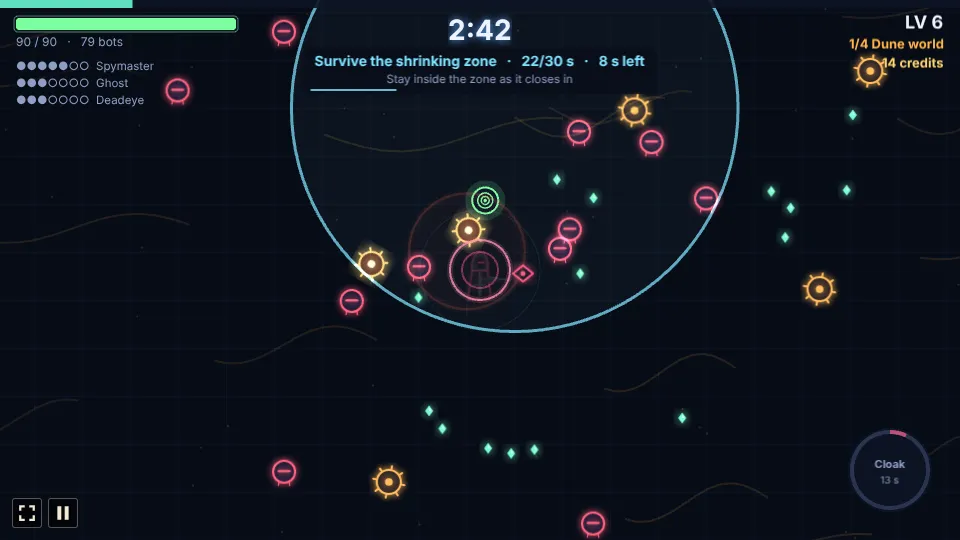
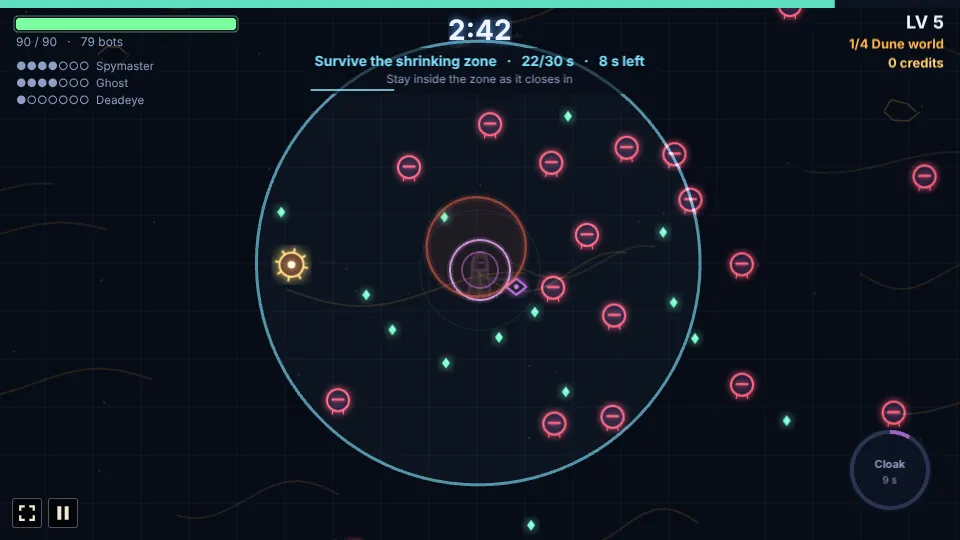
Riftblade: new colours and shapes for the four crew heroes
Dax Morrow now wears olive with salmon trim, Grunda has slate fur with pale aqua trim and a belt and shoulder guard, KT-4 "Kettle" is a boxy brass droid with a mint lens, and Cassia Vane an umber cloak with an orchid visor. Dax's freighter is a boxy hauler with two engine pods. Grunda's mastery colours move off Kettle's new mint. The screenshots are retaken.

Requested by Chriszly.

Created with Claude Opus 5.5 (low)

diff --git a/games/riftblade/src/art/crew.ts b/games/riftblade/src/art/crew.ts
@@ -1,6 +1,6 @@
 /**
  * The crew's art: Dax Morrow (a smuggler in a vest with a heavy pistol), Grunda (a big furred
- * hunter with a crossbow), KT-4 "Kettle" (a small domed droid with a zap prod) and Cassia Vane (a
+ * hunter with a crossbow), KT-4 "Kettle" (a small boxy droid with a zap prod) and Cassia Vane (a
  * hooded spy with a long rifle), each from its scheme, and their allies' textures: Dax's freighter,
  * Kettle's repair drone and Cassia's spy drone. Painted lazily, the first time one is shown
  * (`bakeLate` in `sprites.ts`), never at boot.
@@ -65,7 +65,7 @@ export function drawCrewHero(ctx: Ctx, id: HeroId, x: number, y: number, z: numb
     return;
   }
   if (id === 'grunda') {
-    // A head taller than the rest: a shaggy body, a bandolier, a long face with dark eyes.
+    // A head taller than the rest: a shaggy body, a belt and shoulder guard, a long face with dark eyes.
     const fur = sch.body;
     shape(ctx, () => ctx.roundRect(x - 28, y - 4, 56, 70, 22), fur, sch.accent, 6, z);
     ctx.fillStyle = shade(fur, -0.2);
@@ -77,14 +77,12 @@ export function drawCrewHero(ctx: Ctx, id: HeroId, x: number, y: number, z: numb
       ctx.lineTo(fx + 8, y + 60);
       ctx.fill();
     }
-    ctx.strokeStyle = mark;
-    ctx.lineWidth = 7;
-    ctx.beginPath();
-    ctx.moveTo(x - 24, y + 4);
-    ctx.lineTo(x + 22, y + 52);
-    ctx.stroke();
+    // A wide belt with a buckle, and a shoulder guard.
+    ctx.fillStyle = mark;
+    ctx.fillRect(x - 28, y + 40, 56, 8);
     ctx.fillStyle = sch.accent;
-    for (let i = 0; i < 4; i++) ctx.fillRect(x - 16 + i * 10, y + 9 + i * 10.5, 5, 6);
+    ctx.fillRect(x - 5, y + 39, 10, 10);
+    shape(ctx, () => ctx.roundRect(x - 32, y - 2, 22, 14, 6), mark, sch.accent, 4, z);
     shape(ctx, () => ctx.roundRect(x - 19, y - 42, 38, 42, 16), fur, sch.accent, 6, z);
     ctx.fillStyle = shade(fur, 0.2);
     ctx.beginPath();
@@ -113,31 +111,39 @@ export function drawCrewHero(ctx: Ctx, id: HeroId, x: number, y: number, z: numb
     return;
   }
   if (id === 'kettle') {
-    // Small: a white barrel body with a blue dome, one big lens, stubby legs and a prod arm.
+    // Small and boxy: a squat brass body on three short legs, a flat-topped head with a visor slit
+    // and two antennae, and a prod arm.
     ctx.fillStyle = shade(sch.body, -0.45);
-    ctx.fillRect(x - 20, y + 46, 10, 18);
-    ctx.fillRect(x + 10, y + 46, 10, 18);
-    shape(ctx, () => ctx.roundRect(x - 20, y + 4, 40, 48, 8), sch.body, sch.accent, 8, z);
-    ctx.fillStyle = sch.accent;
-    ctx.fillRect(x - 20, y + 18, 40, 6);
-    ctx.fillRect(x - 12, y + 30, 8, 14);
+    ctx.fillRect(x - 18, y + 48, 8, 16);
+    ctx.fillRect(x - 4, y + 50, 8, 14);
+    ctx.fillRect(x + 10, y + 48, 8, 16);
+    shape(ctx, () => ctx.roundRect(x - 22, y + 14, 44, 38, 5), sch.body, sch.accent, 8, z);
     ctx.fillStyle = mark;
-    ctx.fillRect(x + 2, y + 30, 12, 4);
-    ctx.fillRect(x + 2, y + 38, 12, 4);
-    shape(ctx, () => {
-      ctx.arc(x, y + 6, 20, Math.PI, 0);
-      ctx.closePath();
-    }, sch.accent, sch.accent, 6, z);
-    ctx.fillStyle = sch.body;
-    ctx.fillRect(x - 14, y - 6, 28, 3);
-    shape(ctx, () => ctx.arc(x + 6, y - 2, 6, 0, Math.PI * 2), C.ink, sch.bolt, 8, z);
-    ctx.fillStyle = sch.bolt;
+    ctx.fillRect(x - 22, y + 26, 44, 5);
+    ctx.fillStyle = shade(sch.body, 0.25);
+    for (let i = 0; i < 3; i++) ctx.fillRect(x - 14 + i * 10, y + 36, 6, 8);
+    shape(ctx, () => ctx.roundRect(x - 15, y - 12, 30, 24, 4), shade(sch.body, 0.1), sch.accent, 6, z);
+    ctx.fillStyle = C.ink;
+    ctx.fillRect(x - 11, y - 4, 22, 7);
+    ctx.save();
+    glow(ctx, sch.accent, 10, z);
+    ctx.fillStyle = sch.accent;
+    ctx.fillRect(x - 2, y - 3, 10, 5);
+    ctx.restore();
+    ctx.strokeStyle = mark;
+    ctx.lineWidth = 2;
     ctx.beginPath();
-    ctx.arc(x + 7, y - 3, 2.5, 0, Math.PI * 2);
-    ctx.fill();
+    ctx.moveTo(x - 9, y - 12);
+    ctx.lineTo(x - 13, y - 24);
+    ctx.moveTo(x + 9, y - 12);
+    ctx.lineTo(x + 11, y - 22);
+    ctx.stroke();
+    ctx.fillStyle = sch.accent;
+    ctx.fillRect(x - 15, y - 27, 4, 4);
+    ctx.fillRect(x + 9, y - 25, 4, 4);
     // The prod: a thin arm with a forked, sparking tip.
     ctx.fillStyle = '#8a93a6';
-    ctx.fillRect(x + 18, y + 26, 26, 4);
+    ctx.fillRect(x + 20, y + 26, 24, 4);
     ctx.fillRect(x + 42, y + 21, 3, 14);
     ctx.fillRect(x + 42, y + 21, 8, 3);
     ctx.fillRect(x + 42, y + 32, 8, 3);
@@ -192,20 +198,22 @@ export function drawCrewHero(ctx: Ctx, id: HeroId, x: number, y: number, z: numb
 /** Paints the crew's allies: the freighter (pointing right), the repair drone and the spy drone. */
 export function bakeCrewAllies(scene: Phaser.Scene, id: HeroId, sch: HeroScheme) {
   if (id === 'dax' && !scene.textures.exists('rb-freighter')) {
-    paint(scene, 'rb-freighter', 76, 56, (ctx) => {
-      // A round-nosed freighter seen from above, its cockpit off to one side.
-      shape(ctx, () => ctx.ellipse(34, 28, 26, 22, 0, 0, Math.PI * 2), '#b8b4a8', sch.accent, 10);
-      ctx.fillStyle = '#8a867c';
-      ctx.fillRect(48, 18, 22, 6);
-      ctx.fillRect(48, 32, 22, 6);
-      shape(ctx, () => ctx.roundRect(54, 6, 16, 10, 4), '#d6d2c6', sch.accent, 4);
+    paint(scene, 'rb-freighter', 76, 48, (ctx) => {
+      // A boxy hauler seen from above, pointing right: a long cargo hull, a narrow cab at the
+      // front and two engine pods at the back.
+      shape(ctx, () => ctx.roundRect(14, 14, 44, 20, 4), '#6f7a72', sch.accent, 10);
+      ctx.fillStyle = '#56605a';
+      for (let i = 0; i < 3; i++) ctx.fillRect(20 + i * 12, 17, 8, 14);
+      shape(ctx, () => ctx.roundRect(56, 18, 14, 12, 5), '#8a958c', sch.accent, 4);
       ctx.fillStyle = C.ink;
-      ctx.fillRect(64, 8, 5, 6);
-      outline(ctx, () => ctx.arc(34, 28, 10, 0, Math.PI * 2), shade('#b8b4a8', -0.3), 2, 0);
+      ctx.fillRect(64, 20, 4, 8);
+      shape(ctx, () => ctx.roundRect(8, 4, 20, 9, 3), '#56605a', sch.accent, 4);
+      shape(ctx, () => ctx.roundRect(8, 35, 20, 9, 3), '#56605a', sch.accent, 4);
       ctx.save();
-      glow(ctx, '#7fdfff', 10);
-      ctx.fillStyle = '#7fdfff';
-      ctx.fillRect(6, 22, 4, 12);
+      glow(ctx, sch.bolt, 10);
+      ctx.fillStyle = sch.bolt;
+      ctx.fillRect(4, 6, 4, 5);
+      ctx.fillRect(4, 37, 4, 5);
       ctx.restore();
     });
   }

diff --git a/games/riftblade/src/game/heroes.ts b/games/riftblade/src/game/heroes.ts
@@ -387,7 +387,7 @@ export const HEROES: Record<HeroId, HeroDef> = {
     short: 'daxShort',
     weapon: 'daxWeapon',
     pools: ['blaster'],
-    schemes: [{ name: 'Smuggler', body: '#3a3128', accent: '#7ee08a', mark: '#e8dcc0', bolt: '#ff7a5a' }],
+    schemes: [{ name: 'Olive', body: '#2f3b2c', accent: '#e2725b', mark: '#d9c27a', bolt: '#ffc48a' }],
     maxHp: 125,
     speed: 152,
     aim: 'nearest',
@@ -413,7 +413,7 @@ export const HEROES: Record<HeroId, HeroDef> = {
     pools: ['blaster'],
     // A big, furred body.
     r: 17,
-    schemes: [{ name: 'Fur', body: '#8a6a48', accent: '#f0a050', mark: '#4a3826', bolt: '#9cff6a' }],
+    schemes: [{ name: 'Slate', body: '#5b6878', accent: '#9ad1d4', mark: '#36404c', bolt: '#d6f5a0' }],
     maxHp: 160,
     speed: 130,
     aim: 'nearest',
@@ -439,7 +439,7 @@ export const HEROES: Record<HeroId, HeroDef> = {
     pools: ['blaster'],
     // A small droid.
     r: 10,
-    schemes: [{ name: 'Shell', body: '#d8dde6', accent: '#4da6ff', mark: '#3a4a66', bolt: '#7fdfff' }],
+    schemes: [{ name: 'Brass', body: '#b89a6a', accent: '#6ef0a8', mark: '#5a4630', bolt: '#b6ffd8' }],
     maxHp: 100,
     speed: 192,
     aim: 'zap',
@@ -463,7 +463,7 @@ export const HEROES: Record<HeroId, HeroDef> = {
     short: 'cassiaShort',
     weapon: 'cassiaWeapon',
     pools: ['blaster'],
-    schemes: [{ name: 'Shadow', body: '#1c1f2a', accent: '#ff5c8a', mark: '#5a6070', bolt: '#ff8fb0' }],
+    schemes: [{ name: 'Umber', body: '#4b4038', accent: '#d07af0', mark: '#8a7a6a', bolt: '#eab0ff' }],
     maxHp: 90,
     speed: 150,
     aim: 'nearest',

diff --git a/games/riftblade/src/game/mastery.ts b/games/riftblade/src/game/mastery.ts
@@ -61,7 +61,7 @@ export const MASTERY_COLOURS: Record<HeroId, Omit<HeroScheme, 'name' | 'bolt'>> 
   elara: { body: '#2f4a5c', accent: '#ffb347', mark: '#e6dac2' },
   triad: { body: '#2a2d36', accent: '#7df9ff', mark: '#4a5266' },
   dax: { body: '#1e2a3a', accent: '#ffd23f', mark: '#c8b89a' },
-  grunda: { body: '#5c5a58', accent: '#7af0c0', mark: '#2e2c2a' },
+  grunda: { body: '#4a3a2e', accent: '#ff9a76', mark: '#2e2420' },
   kettle: { body: '#f0e6d0', accent: '#ff8a3c', mark: '#5a4630' },
   cassia: { body: '#f2f0f4', accent: '#7a5cff', mark: '#9aa0b0' },
 };

diff --git a/games/riftblade/README.md b/games/riftblade/README.md
@@ -50,10 +50,10 @@ foes and bolts.
 | Master Joren Vask (royal blue blade) | A fast flurry strikes in four directions around him. **Edge**: every 10th hit is a critical hit | **Breaking Point**: one huge strike that stuns the strongest foe (12 s) | Duelist Form, Breaker, Council Seat |
 | Commander Elara Voss (red) | Precise pistol: always aims at the nearest foe. 85 health, medium speed. **Hope**: her level-ups offer 4 cards instead of 3 | **Call for Aid**: plants a signal flag, and rebel fighters bombard the area round it (16 s) | Sharpshooter, Rebel Network, Diplomat |
 | Triad-77 (white) | Three skinny battle bots moving as one unit, each shooting the foe nearest to it. about 42 health per bot; a fallen bot is rebuilt after 10 s, and the run ends only when all are down | **Formation Shift**: toggles Spread (a wide triangle) and Column (stacked, all firing at the nearest foe, triple damage) (2.5 s) | Firing Line, Factory, Uplink |
-| Dax Morrow (green vest) | Heavy pistol at the nearest foe; his first shot at an unhurt foe (not a boss) is a critical hit. 125 health, quick. **Luck**: every second chest also gives a free card | **Fly-By**: his freighter swoops over the thickest swarm and strafes it (14 s) | Fast Hands, Smuggler's Run, Lucky Streak |
-| Grunda (amber fur) | Heavy crossbow: slow bolts that pierce a foe and push foes back. 160 health, big, slow. **Rage**: the more health she has lost, the harder she hits (up to +60%) | **Roar**: stuns and throws back every foe near her for 1.2 s; a boss is only slowed (16 s) | Heavy Bolts, Wild Heart, Warcry |
-| KT-4 "Kettle" (white and blue) | Zap prod: a short-range zap at the nearest foe that jumps to one more. 100 health, tiny and very fast. **Self-repair**: mends 1.5 health a second | **Hack**: the 3 nearest foes fight for him for 6 s, never a boss or elite (11 s) | Prod, Hacker, Spare Parts |
-| Cassia Vane (pink visor) | Long rifle: slow, hard shots from far away that pierce 2 foes. 90 health | **Cloak**: she vanishes for 4 s and takes no damage, the foes go for where she stood, and her next shot hits three times as hard (13 s) | Deadeye, Ghost, Spymaster |
+| Dax Morrow (olive, salmon trim) | Heavy pistol at the nearest foe; his first shot at an unhurt foe (not a boss) is a critical hit. 125 health, quick. **Luck**: every second chest also gives a free card | **Fly-By**: his freighter swoops over the thickest swarm and strafes it (14 s) | Fast Hands, Smuggler's Run, Lucky Streak |
+| Grunda (slate fur, pale aqua trim) | Heavy crossbow: slow bolts that pierce a foe and push foes back. 160 health, big, slow. **Rage**: the more health she has lost, the harder she hits (up to +60%) | **Roar**: stuns and throws back every foe near her for 1.2 s; a boss is only slowed (16 s) | Heavy Bolts, Wild Heart, Warcry |
+| KT-4 "Kettle" (brass, mint lens) | Zap prod: a short-range zap at the nearest foe that jumps to one more. 100 health, tiny and very fast. **Self-repair**: mends 1.5 health a second | **Hack**: the 3 nearest foes fight for him for 6 s, never a boss or elite (11 s) | Prod, Hacker, Spare Parts |
+| Cassia Vane (umber cloak, orchid visor) | Long rifle: slow, hard shots from far away that pierce 2 foes. 90 health | **Cloak**: she vanishes for 4 s and takes no damage, the foes go for where she stood, and her next shot hits three times as hard (13 s) | Deadeye, Ghost, Spymaster |
 
 Only Legionary TR-9 is open from the start. Every other hero unlocks through a deed, which the game
 never shows: a locked card is a dark placeholder with no art or name. When a deed is done, the run

diff --git a/games/riftblade/AGENTS.md b/games/riftblade/AGENTS.md
@@ -329,7 +329,7 @@ world, with a star map between them. A boss rush and hero mastery come on top.
   with the Cloak's triple shot through `player.charge`), `crewSignature` (`flyBy`, `roar`, `hack`,
   which spends nothing with no foe to take, and `cloak`), `crewAbilities` (the freighter and Roar
   on their own with Smuggler's Run 5, Full Throttle and Thunder Lungs, Botnet, Cassia's marks),
-  allies (`crewAllies`, `moveCrewAlly`: `freighter` (short-lived), `patch` and `spydrone`) and
+  allies (`crewAllies`, `moveCrewAlly`: `freighter` (short-lived, a boxy hauler), `patch` and `spydrone`) and
   hooks: `crewHit` (Dax's first-shot crit, Deadeye and the mark in `damage`), `crewRange`,
   `crewUntouchable`, `crewTarget` (the decoy in `moveEnemies`), `crewTurned`, `crewKill`,
   `crewKillHeal`, `crewChest` (Luck and Jackpot in `openChest`), `crewHurt`, `crewRescue` (Second
